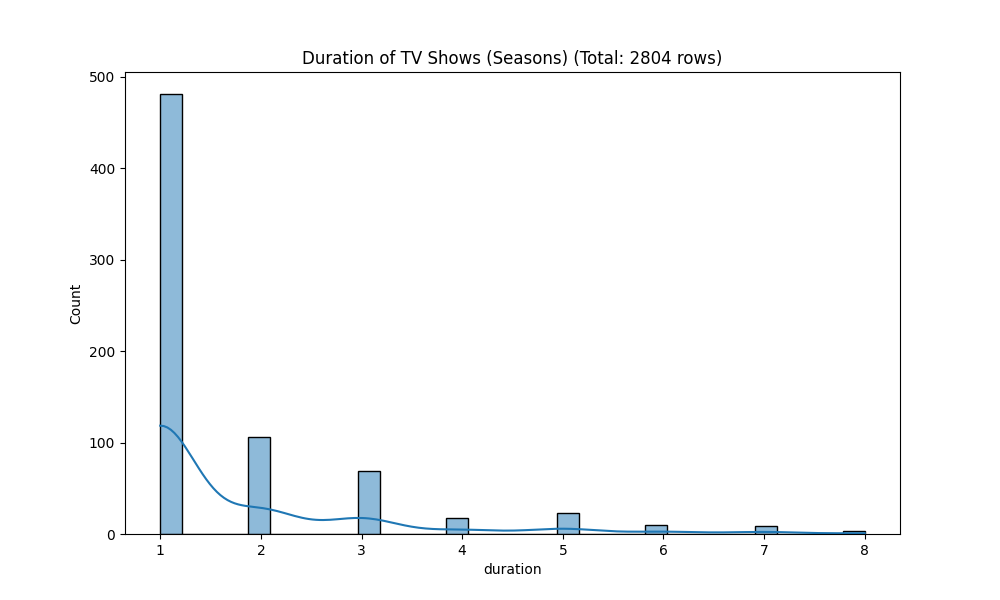
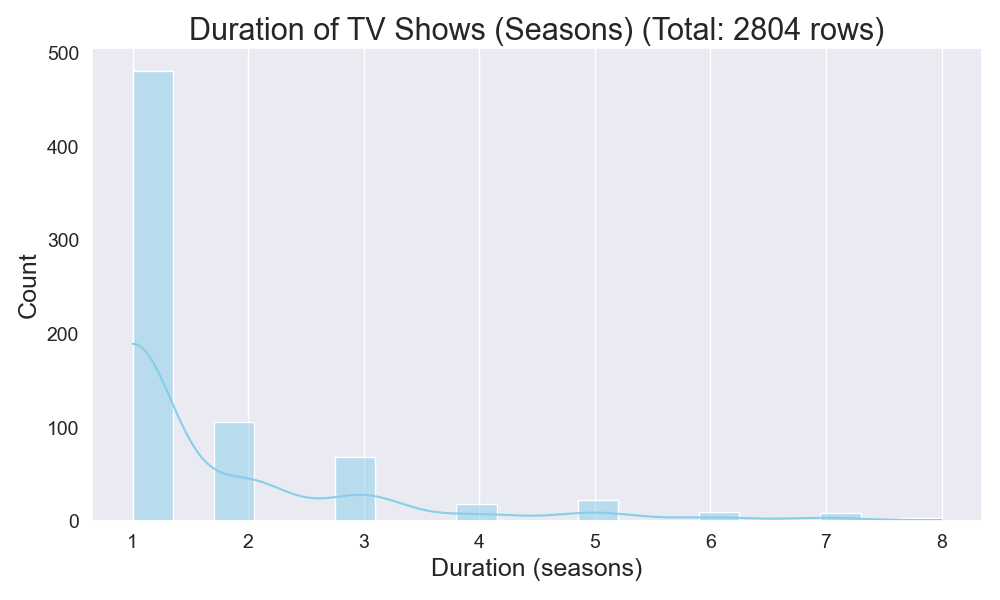
added business logic and made the graphs fancier

diff --git a/visualization.py b/visualization.py
@@ -1,31 +1,50 @@
 import pandas as pd
 import matplotlib.pyplot as plt
 import seaborn as sns
-import os
 
+# Use seaborn styles
+sns.set_theme(style="darkgrid")
 
 # Load the cleaned data
 data_cleaned = pd.read_csv('csvs/merged_cleaned_country.csv')
 
 # 1. Rating Distribution
-plt.figure(figsize=(10, 6))
-sns.histplot(data=data_cleaned, x="rating", kde=True)
-plt.title(f'Rating Distribution (Total: {len(data_cleaned)} rows)')
+plt.figure(figsize=(10,6))
+sns.histplot(data=data_cleaned, x="rating", kde=True, color='skyblue', bins=20)
+plt.title(f'Rating Distribution (Total: {len(data_cleaned)} rows)', fontsize=22)
+plt.xlabel('Rating', fontsize=18)
+plt.ylabel('Count', fontsize=18)
+plt.xticks(fontsize=14)
+plt.yticks(fontsize=14)
+plt.grid(axis='y')
+plt.tight_layout()
 plt.savefig('visualization/rating_distribution.png')
 plt.show()
 
 # 2. Top Genres
-plt.figure(figsize=(10, 6))
+plt.figure(figsize=(10,6))
 genres = data_cleaned['genre'].str.split(', ').explode()
-sns.countplot(y=genres, order=genres.value_counts().index[:10])
-plt.title(f'Top Genres (Total: {len(genres)} rows)')
+sns.countplot(y=genres, order=genres.value_counts().index[:10], palette='viridis')
+plt.title(f'Top Genres (Total: {len(genres)} rows)', fontsize=22)
+plt.xlabel('Count', fontsize=18)
+plt.ylabel('Genre', fontsize=18)
+plt.xticks(fontsize=14)
+plt.yticks(fontsize=14)
+plt.grid(axis='x')
+plt.tight_layout()
 plt.savefig('visualization/top_genres.png')
 plt.show()
 
 # 3. Country-wise Content
-plt.figure(figsize=(10, 6))
-sns.countplot(y=data_cleaned['country'], order=data_cleaned['country'].value_counts().index[:10])
-plt.title(f'Country-wise Content (Total: {len(data_cleaned)} rows)')
+plt.figure(figsize=(10,6))
+sns.countplot(y=data_cleaned['country'], order=data_cleaned['country'].value_counts().index[:10], palette='viridis')
+plt.title(f'Country-wise Content (Total: {len(data_cleaned)} rows)', fontsize=22)
+plt.xlabel('Count', fontsize=18)
+plt.ylabel('Country', fontsize=18)
+plt.xticks(fontsize=14)
+plt.yticks(fontsize=14)
+plt.grid(axis='x')
+plt.tight_layout()
 plt.savefig('visualization/country_wise_content.png')
 plt.show()
 
@@ -35,25 +54,43 @@ movies = data_cleaned[data_cleaned['type'] == 'Movie']
 tv_shows = data_cleaned[data_cleaned['type'] == 'TV Show']
 
 # Duration of Movies
-plt.figure(figsize=(10, 6))
+plt.figure(figsize=(10,6))
 movie_duration = movies['duration'].str.replace(' min', '').astype(int)
-sns.histplot(movie_duration, kde=True)
-plt.title(f'Duration of Movies (Total: {len(movies)} rows)')
+sns.histplot(movie_duration, kde=True, color='skyblue', bins=20)
+plt.title(f'Duration of Movies (Total: {len(movies)} rows)', fontsize=22)
+plt.xlabel('Duration (minutes)', fontsize=18)
+plt.ylabel('Count', fontsize=18)
+plt.xticks(fontsize=14)
+plt.yticks(fontsize=14)
+plt.grid(axis='y')
+plt.tight_layout()
 plt.savefig('visualization/duration_of_movies.png')
-plt.close()
+plt.show()
 
 # Duration of TV Shows in Seasons
 tv_shows_seasons = tv_shows[tv_shows['duration'].str.contains('Season')]
-plt.figure(figsize=(10, 6))
+plt.figure(figsize=(10,6))
 tv_show_season_duration = tv_shows_seasons['duration'].str.replace(' Season[s]?', '', regex=True).astype(int)
-sns.histplot(tv_show_season_duration, kde=True)
-plt.title(f'Duration of TV Shows (Seasons) (Total: {len(tv_shows)} rows)')
+sns.histplot(tv_show_season_duration, kde=True, color='skyblue', bins=20)
+plt.title(f'Duration of TV Shows (Seasons) (Total: {len(tv_shows)} rows)', fontsize=22)
+plt.xlabel('Duration (seasons)', fontsize=18)
+plt.ylabel('Count', fontsize=18)
+plt.xticks(fontsize=14)
+plt.yticks(fontsize=14)
+plt.grid(axis='y')
+plt.tight_layout()
 plt.savefig('visualization/duration_of_tv_shows_seasons.png')
-plt.close()
+plt.show()
 
 # 5. Content Type
-plt.figure(figsize=(10, 6))
-sns.countplot(x=data_cleaned['type'])
-plt.title(f'Content Type (Total: {len(data_cleaned)} rows)')
+plt.figure(figsize=(10,6))
+sns.countplot(x=data_cleaned['type'], palette='viridis')
+plt.title(f'Content Type (Total: {len(data_cleaned)} rows)', fontsize=22)
+plt.xlabel('Type', fontsize=18)
+plt.ylabel('Count', fontsize=18)
+plt.xticks(fontsize=14)
+plt.yticks(fontsize=14)
+plt.grid(axis='y')
+plt.tight_layout()
 plt.savefig('visualization/content_type.png')
 plt.show()

diff --git a/business_problem.py b/business_problem.py
@@ -1,0 +1,73 @@
+import pandas as pd
+import matplotlib.pyplot as plt
+import seaborn as sns
+sns.set_theme(style="whitegrid")
+
+
+# Load the cleaned data
+data_cleaned = pd.read_csv('csvs/merged_cleaned_country.csv')
+
+
+# Explode the 'genre' column into multiple rows
+data_exploded = data_cleaned.assign(genre=data_cleaned['genre'].str.split(', ')).explode('genre')
+
+# Create a boxplot of 'rating' for each 'genre' in top 10 Genre
+plt.figure(figsize=(12, 6))
+sns.boxplot(data=data_exploded, x='rating', y='genre', 
+            order=data_exploded['genre'].value_counts().index[:10],
+            palette="vlag")
+
+plt.title(f'Rating vs Genre (Total: {len(data_exploded)} rows)', fontsize=20)
+plt.xlabel('Rating', fontsize=15)
+plt.ylabel('Genre', fontsize=15)
+plt.xticks(fontsize=12)
+plt.yticks(fontsize=12)
+
+plt.tight_layout()
+plt.savefig('business_visualization/rating_vs_genre.png')
+plt.show()
+
+
+
+#2 length vs rating# Separate movies and TV shows
+movies = data_cleaned[data_cleaned['type'] == 'Movie'].copy()
+tv_shows = data_cleaned[data_cleaned['type'] == 'TV Show'].copy()
+
+# Convert duration to integer
+movies['duration_int'] = movies['duration'].str.replace(' min', '').astype(int)
+tv_shows_seasons = tv_shows[tv_shows['duration'].str.contains('Season')].copy()
+tv_shows_seasons['duration_int'] = tv_shows_seasons['duration'].str.replace(' Season[s]?', '', regex=True).astype(int)
+
+# Create a scatterplot for movies
+plt.figure(figsize=(14, 8))
+sns.scatterplot(data=movies, x='duration_int', y='rating', hue='rating', palette='coolwarm', alpha=0.6)
+plt.title(f'Rating vs. Duration for Movies (Total: {len(movies)} rows)', fontsize=20)
+plt.xlabel('Duration (minutes)', fontsize=15)
+plt.ylabel('Rating', fontsize=15)
+plt.xticks(fontsize=12)
+plt.yticks(fontsize=12)
+plt.tight_layout()
+plt.savefig('business_visualization/rating_vs_duration_movies.png')
+plt.show()
+
+# Create a scatterplot for TV shows
+plt.figure(figsize=(14, 8))
+sns.scatterplot(data=tv_shows_seasons, x='duration_int', y='rating', hue='rating', palette='coolwarm', alpha=0.6)
+plt.title(f'Rating vs. Duration for TV Shows (Total: {len(tv_shows_seasons)} rows)', fontsize=20)
+plt.xlabel('Duration (seasons)', fontsize=15)
+plt.ylabel('Rating', fontsize=15)
+plt.xticks(fontsize=12)
+plt.yticks(fontsize=12)
+plt.tight_layout()
+plt.savefig('business_visualization/rating_vs_duration_tv_shows.png')
+plt.show()
+
+
+
+
+
+
+
+
+
+
